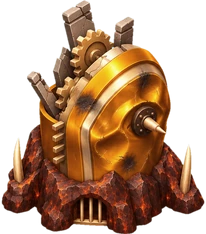
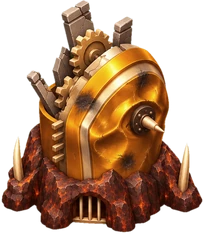
Inferno paint: level 1 Academy damaged on Flash's full base line; Flash-vs-Modern sheet from shipped files
The Academy canvas cut Flash's damaged level 1 three pixels short at the bottom, so its painting stood 3 px high:
taller canvas, refitted (the other Academy pictures come out byte-identical). game_sheet.py draws Flash beside
Modern for every look and state from the shipped files and the rows in buildingArtTiers.ts.

Claude-Session: https://claude.ai/code/session_01YTHpmxqo3agdo7MyCCqmwe

diff --git a/web/src/game/yard/buildingArtTiers.ts b/web/src/game/yard/buildingArtTiers.ts
@@ -893,7 +893,7 @@ export const INFERNO_PAINTED_BUILDING_ART: Readonly<Record<number, readonly Tier
   // 26 Academy: painted, Flash's two looks (level 1, levels 2-4), damaged and destroyed in paint too
   26: [
     { from: 1, top: ["top.c1@2x.webp", -50, -55], shadow: ["shadow.1.jpg", -50, -30], lift: 0,
-      damaged: { top: ["top.c1.damaged@2x.webp", -49, -27], shadow: ["shadow.1.jpg", -50, -30] },
+      damaged: { top: ["top.c1.damaged@2x.webp", -49, -23], shadow: ["shadow.1.jpg", -50, -30] },
       destroyed: { top: ["top.c1.destroyed@2x.webp", -52, -15], shadow: ["shadow.1.jpg", -50, -30] } },
     { from: 2, top: ["top.c2@2x.webp", -57, -92], shadow: ["shadow.2.jpg", -61, -30], lift: 0,
       damaged: { top: ["top.c2.damaged@2x.webp", -53, -90], shadow: ["shadow.2.jpg", -61, -30] },

diff --git a/web/tools/inferno-paint/game_sheet.py b/web/tools/inferno-paint/game_sheet.py
@@ -1,0 +1,111 @@
+"""game_sheet.py <outdir> [scale] : Flash beside Modern from the SHIPPED files and the art rows in buildingArtTiers.ts.
+
+For each building one sheet <name>@<s>x.png: a row per look, columns whole / damaged / destroyed, each cell Flash left
+and Modern right on the yard's ground (lava for the Inferno buildings, grass for the Cavern) with the shadow each look
+draws, origins on the same spot. Also prints each top picture's brightness / saturation.
+"""
+import re
+import sys
+from pathlib import Path
+
+import numpy as np
+from PIL import Image, ImageDraw
+
+sys.path.insert(0, str(Path(__file__).parent))
+from common import REPO, B, canvas, flash_shadow, flash_top, folder, ground, multiply  # noqa: E402
+
+out = Path(sys.argv[1]); out.mkdir(parents=True, exist_ok=True)
+S = int(sys.argv[2]) if len(sys.argv) > 2 else 2
+TS = (REPO / "web/src/game/yard/buildingArtTiers.ts").read_text()
+IMG = r'(null|\["([^"]+)", (-?\d+), (-?\d+)\])'
+
+
+def rows(block):
+    """[(from, {state: (top, shadow)})] from a TierArt list's source."""
+    res = []
+    for m in re.finditer(r"\{ from: (\d+), top: " + IMG + r", shadow: " + IMG + r"(.*?)\} \},|\{ from: (\d+), top: " + IMG
+                         + r", shadow: " + IMG + r", lift: 0 \}", block, re.S):
+        if m.group(1):
+            lv, rest = int(m.group(1)), m.group(10)
+            st = {"": (img(m, 2), img(m, 6))}
+            for s in ("damaged", "destroyed"):
+                mm = re.search(s + r": \{ top: " + IMG + r", shadow: " + IMG, rest)
+                st[s] = (img(mm, 1), img(mm, 5))
+        else:
+            lv = int(m.group(11))
+            st = {"": (img(m, 12), img(m, 16))}
+        res.append((lv, st))
+    return res
+
+
+def img(m, i):
+    return None if m.group(i) == "null" else (m.group(i + 1), int(m.group(i + 2)), int(m.group(i + 3)))
+
+
+def block_of(start, end_pat):
+    i = TS.index(start)
+    return TS[i:TS.index(end_pat, i + len(start))]
+
+
+painted = block_of("export const INFERNO_PAINTED_BUILDING_ART", "\n};")
+MODERN = {"a": rows(painted[painted.index("  26: ["):painted.index("  128: [")]),
+          "b": rows(painted[painted.index("  128: ["):]),
+          "c": rows(block_of("export const CAVERN_ART", "\n];"))}
+
+
+def scene(b, top, shadow):
+    CW, CH, OX, OY = canvas(b)
+    bg = ground(B[b]["ground"], CW * S, CH * S)
+    if shadow:
+        f, x, y = shadow
+        im = Image.open(folder(b) / f)
+        bg = multiply(bg, im.resize((im.width * S, im.height * S), Image.LANCZOS), (OX + x) * S, (OY + y) * S)
+    bg = bg.convert("RGBA")
+    f, x, y = top
+    im = Image.open(folder(b) / f).convert("RGBA")
+    k = S / 2 if "@2x" in f else S
+    im = im.resize((round(im.width * k), round(im.height * k)), Image.LANCZOS)
+    bg.alpha_composite(im, ((OX + x) * S, (OY + y) * S))
+    return bg.convert("RGB"), ((OX + x) * S, (OY + y) * S, (OX + x) * S + im.width, (OY + y) * S + im.height)
+
+
+def stats(f):
+    a = np.asarray(Image.open(f).convert("RGBA")).astype(float) / 255
+    rgb = a[..., :3][a[..., 3] > 0.9]
+    mx, mn = rgb.max(1), rgb.min(1)
+    return f"bright {(rgb @ [0.299, 0.587, 0.114]).mean() * 100:.0f}% sat {np.where(mx > 0, (mx - mn) / np.maximum(mx, 1e-6), 0).mean() * 100:.0f}%"
+
+
+for b in "abc":
+    states = ["", "damaged", "destroyed"] if b != "c" else [""]
+    cells = []
+    for lv, st in MODERN[b]:
+        line = []
+        for s in states:
+            look = f"{b}{lv}{'d' if s == 'damaged' else 'x' if s == 'destroyed' else ''}"
+            fl, fbox = scene(b, flash_top(look), flash_shadow(look))
+            mt, msh = st[s]
+            mo, mbox = scene(b, mt, msh)
+            box = (max(0, min(fbox[0], mbox[0]) - 10 * S), max(0, min(fbox[1], mbox[1]) - 10 * S),
+                   max(fbox[2], mbox[2]) + 10 * S, max(fbox[3], mbox[3]) + 12 * S)
+            c = Image.new("RGB", ((box[2] - box[0]) * 2 + 12, box[3] - box[1] + 26), (24, 24, 24))
+            c.paste(fl.crop(box), (0, 26)); c.paste(mo.crop(box), (box[2] - box[0] + 12, 26))
+            d = ImageDraw.Draw(c)
+            name = f"{B[b]['name']} look {lv} {s or 'whole'}"
+            d.text((4, 6), f"{name}: Flash", fill=(235, 235, 235))
+            d.text((box[2] - box[0] + 16, 6), f"Modern", fill=(235, 235, 235))
+            line.append(c)
+            print(f"{B[b]['name']:15s} {lv} {s or 'whole':9s} flash {stats(folder(b) / flash_top(look)[0])}  modern {stats(folder(b) / mt[0])}")
+        cells.extend([[c] for c in line] if b == "b" else [line])   # the wide Bunker: one state a row
+    W = max(sum(c.width for c in line) + 20 * (len(line) - 1) for line in cells)
+    H = sum(max(c.height for c in line) for line in cells) + 20 * (len(cells) - 1)
+    sheet = Image.new("RGB", (W, H), (24, 24, 24))
+    y = 0
+    for line in cells:
+        x = 0
+        for c in line:
+            sheet.paste(c, (x, y)); x += c.width + 20
+        y += max(c.height for c in line) + 20
+    p = out / f"{B[b]['folder']}-flash-vs-modern@{S}x.png"
+    sheet.save(p)
+    print(p, sheet.size)

diff --git a/web/tools/inferno-paint/common.py b/web/tools/inferno-paint/common.py
@@ -25,7 +25,7 @@ UP = 4
 # per building: folder, canvas (CW, CH, OX, OY), ground ("lava" or "grass"), looks {level: {state: (file, x, y)}}
 # state keys: top, damaged, destroyed, shadow (the shadow the game draws under every state of that look; None = none)
 B = {
-    "a": dict(name="Academy", type=26, folder="iacademy", canvas=(240, 230, 120, 140), ground="lava", looks={
+    "a": dict(name="Academy", type=26, folder="iacademy", canvas=(240, 270, 120, 140), ground="lava", looks={
         1: dict(top=("top.1.png", -50, -55), damaged=("top.1.damaged.png", -48, -21),
                 destroyed=("top.1.destroyed.png", -59, -21), shadow=("shadow.1.jpg", -50, -30)),
         2: dict(top=("top.2.png", -56, -95), damaged=("top.2.damaged.png", -56, -91),
